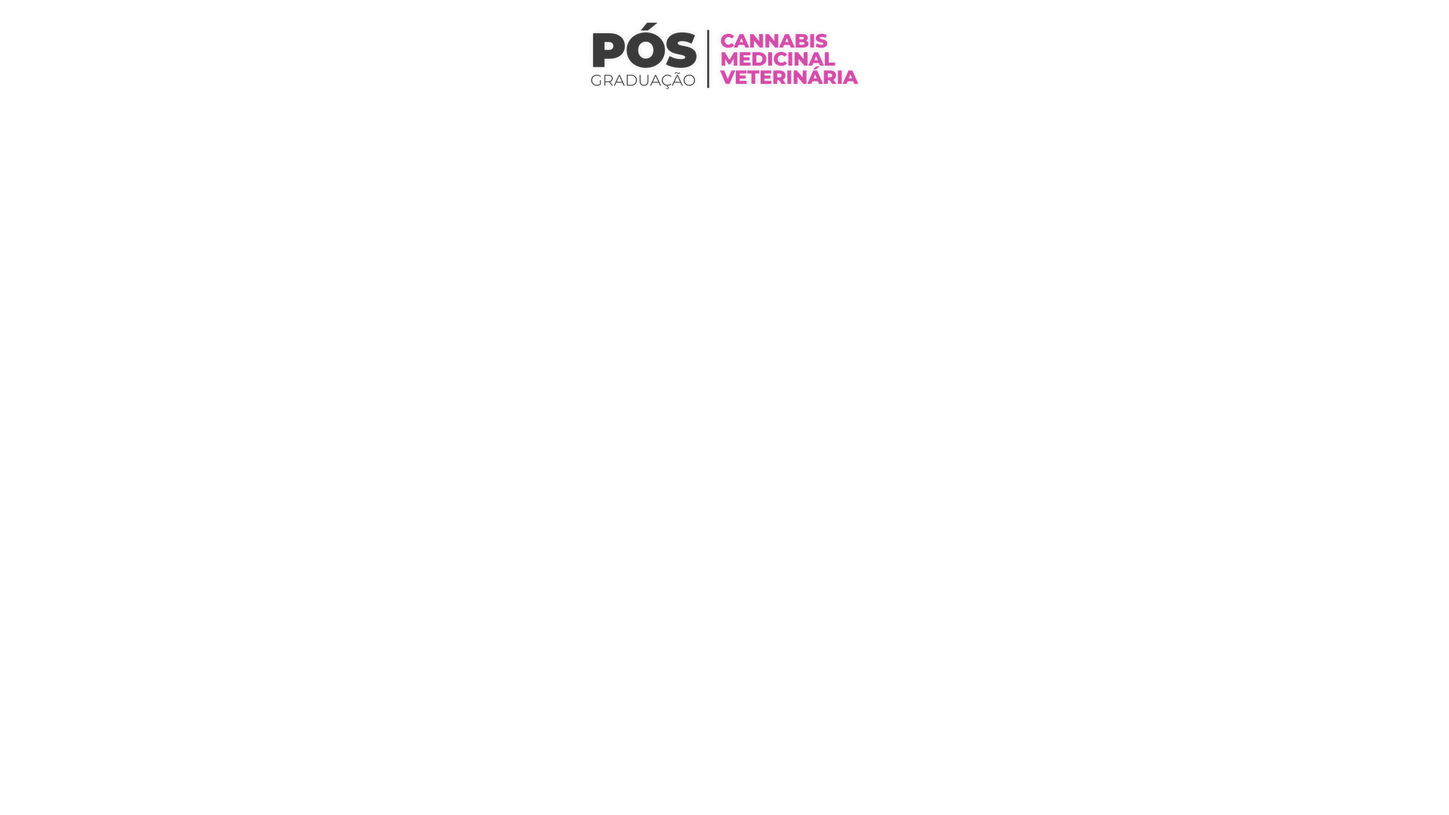
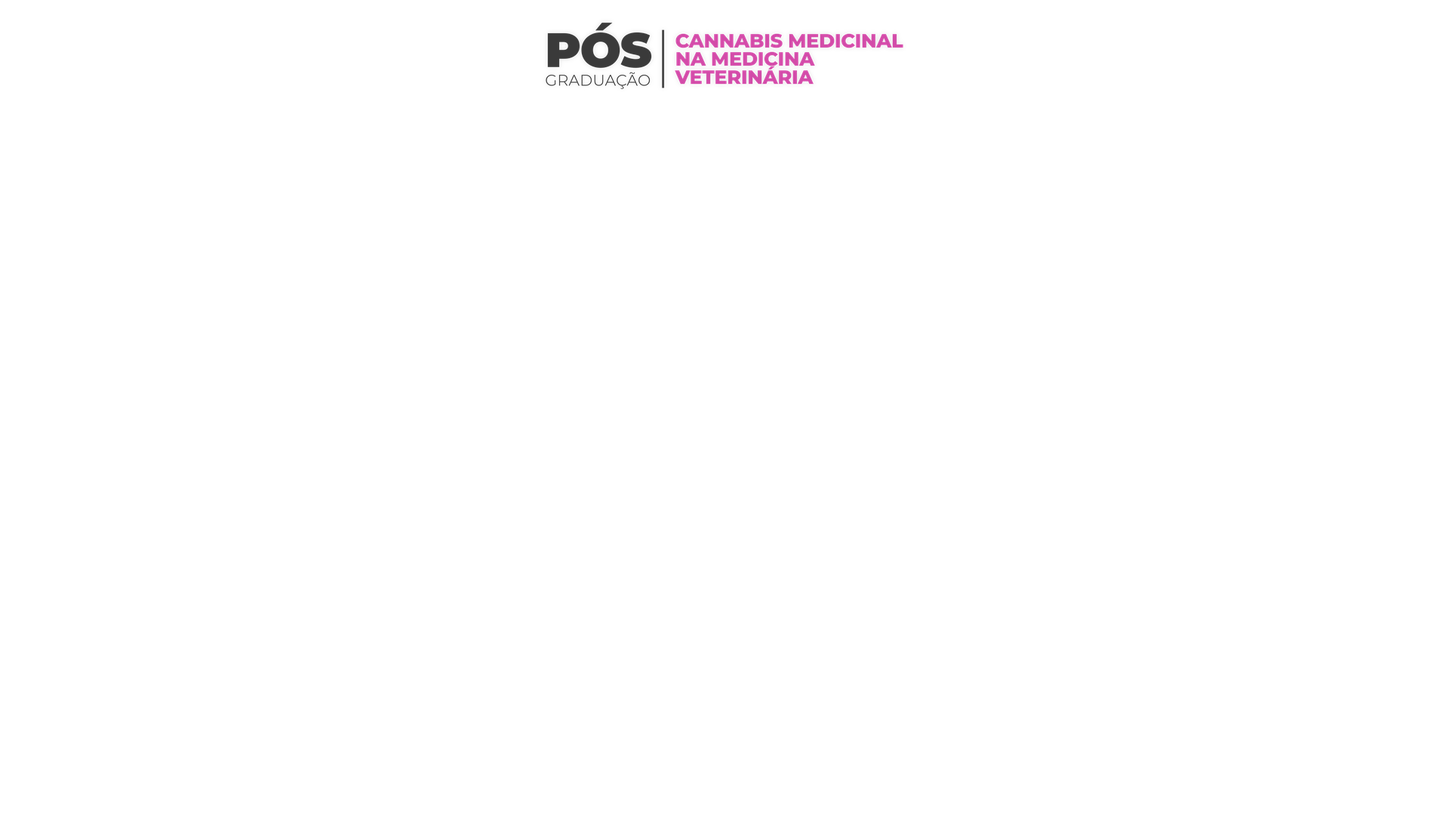
Última passada: revisão independente aplicada (CMMV com o nome oficial, exceções de marca escritas, regra única de contraste, nomes reais fora, live em 720p, título dos cortes no magenta oficial, copy com a pesquisa de fontes oficiais e clássicos, conferência de texto mais forte, autoteste do reels 

Changed region(s): [[0.375, 0.0306, 0.625, 0.1222]]

diff --git a/plugins/ppgvet/scripts/checar_texto.py b/plugins/ppgvet/scripts/checar_texto.py
@@ -5,7 +5,7 @@ uso: checar_texto.py <arquivo.txt> --tipo legenda|arte|whatsapp|anuncio [--titul
 FALHA barra a entrega (corrigir e rodar de novo); AVISO é para olhar e decidir. Sai 1 se houver FALHA."""
 import re, sys
 
-LIMITES = {"legenda": 2200, "whatsapp": 1000, "anuncio": 600, "arte": 400}  # legenda: limite do Instagram; os outros, da casa
+LIMITES = {"legenda": 2200, "whatsapp": 600, "anuncio": 600, "arte": 400}  # legenda: limite do Instagram; os outros, da casa
 VISIVEL = 125  # a legenda e o texto principal do anúncio mostram ~125 caracteres antes do "mais"
 
 FALHAS = [  # (regex, por quê)
@@ -38,12 +38,15 @@ def numeros_da_marca(texto):
     return ruins
 
 
+SIGLAS = ("RNGB", "NGB", "CMCB", "GPL", "SA", "PC", "PS", "CBEA", "CMMV", "QSAOA", "SUZ", "GPERA", "PPT", "MIFV", "GIA",
+          "GCC", "CRCV", "GPDCA", "MVPA")  # as do regras/marca.md (o teste confere)
 COMENTE_OK = {}  # palavra -> perfil, só as que têm automação ligada (regras/oficio/copy.md); vazio até confirmar
 
 AVISOS = [
     (r"(?i)\bcomente\s+[\"“']?([A-ZÁÉÍÓÚÂÊÔÃÕÇ]{2,})", "\"Comente X\" só com palavra que tem automação ligada no perfil: confirmar com quem pediu"),
     (r"(?i)\b(estás|connosco|equipa|ecrã|facto|tu\s+(podes|queres|tens|és|vais))\b", "português de Portugal: escrever como no Brasil, com \"você\""),
     (r"(?i)reconhecid[oa] pelo MEC", 'a prova oficial é "Nota máxima (5) no MEC" (marca.md)'),
+    (r"(?i)\b(marque (um|uma|seus?|suas?|o|a) \w+|comente (sim|eu quero|eu)\b|compartilhe com)", "isca de engajamento tira o post da recomendação (Meta): só com algo real por trás (copy.md)"),
     (r"\bNão é [^.!?\n]{1,60}[.!?]\s+É\b", '"Não é X. É Y." soa a texto de IA (a frase de marca "Não é só mais uma pós-graduação" pode)'),
     (r"(?i)\b(nos dias de hoje|no cenário atual|cada vez mais|mergulh\w+|jornada|alavanc\w+|potencializ\w+|desbrav\w+|"
      r"contribuir para a formação|profissionais qualificados|transformador\w*|revolucion\w+|desvend\w+)", "palavra vazia ou de academiquês: trocar por algo concreto"),
@@ -80,12 +83,19 @@ def checar(texto, tipo, titulo=""):
         avisos.append(f"hashtag em {tipo}: só faz sentido na legenda")
     if texto.count("✅") >= 3:
         avisos.append("lista de ✅ em série soa a template")
+    linhas = [l for l in texto.splitlines() if l.strip()]
+    if tipo == "whatsapp" and len(linhas) > 5:
+        avisos.append(f"{len(linhas)} linhas no WhatsApp: acima de 5 o app corta com \"ler mais\"")
+    for s in SIGLAS:
+        if re.search(rf"(?<![#\w]){s}(?!\w)", texto) and not re.search(rf"\({s}\)", texto):
+            avisos.append(f'sigla "{s}" sozinha: escrever o nome da pós por extenso antes (copy.md)')
+            break
     links = re.findall(r"https?://\S+", texto)
     if tipo == "anuncio" and links:
-        avisos.append("link no texto do anúncio: o destino vai no campo do link e o UTM no modelo de parâmetros (utm.md)")
+        avisos.append("link no texto do anúncio: o destino vai no campo do link e o UTM no modelo de parâmetros da plataforma")
     for l in links:
         if re.search(r"(ppgvet\.com\.br|ppgeducacao\.com\.br)", l) and "utm_source=" not in l and tipo != "anuncio":
-            avisos.append(f"{l}: link de site nosso sem UTM; pegar no gerador Links com UTM do sistema (utm.md)")
+            avisos.append(f"{l}: link de site nosso sem UTM; pegar no gerador \"Links com UTM\" do sistema")
     if tipo == "whatsapp" and len(links) > 1:
         avisos.append("mais de um link no WhatsApp: uma ação só")
     if tipo == "anuncio" and titulo and len(titulo) > 40:
@@ -118,6 +128,15 @@ def teste():
     assert len(f) >= 3 and len(a) >= 2, (f, a)
     f, _ = checar("Aula nova #medicinaveterinaria #ppgeducacao", "legenda")
     assert not f, f
+    import os  # as siglas têm que ser as do regras/marca.md
+    md = open(os.path.join(os.path.dirname(os.path.abspath(__file__)), "..", "regras", "marca.md"), encoding="utf-8").read()
+    assert set(SIGLAS) == set(re.findall(r"^\| ([A-Z]+) \| [^|]+ \| (?:PPGVET|PPG) \|", md, re.M))
+    _, a = checar("Pós em Postura Comercial (PC) com aula nova. Marque um amigo que precisa ver!", "legenda")
+    assert any("isca" in x for x in a) and not any("sigla" in x for x in a), a
+    _, a = checar("Aula nova da CMCB na quinta", "legenda")
+    assert any("sigla" in x for x in a), a
+    _, a = checar("\n".join(["linha"] * 6), "whatsapp")
+    assert any("linhas" in x for x in a), a
     print("ok")
 
 

diff --git a/plugins/ppgvet/scripts/reels.py b/plugins/ppgvet/scripts/reels.py
@@ -2,7 +2,7 @@
 """Monta um vídeo vertical de fala (Instagram) a partir do roteiro.json da pasta.
 Etapas (cada uma reaproveita o que já existe em tmp/):
   base     corta os blocos de fala da fonte 4K deitada, gira, alterna zoom a cada corte -> tmp/base.mov
-  legenda  transcreve a base (whisper local) -> legenda.srt (corrigir à mão e rodar de novo)
+  legenda  transcreve a base (whisper local) -> legenda-bruta.srt (revisar e salvar como legenda.srt)
   (hf.py   gera o projeto HyperFrames com caixinha, cartões e legenda; render -> tmp/hf.mp4)
   final    fala com motion + vinheta + voz e música (sobe na vinheta) -> saída na pasta dos originais
 uso: reels.py pasta/roteiro.json [base|legenda|final] [--previa]"""
@@ -145,7 +145,20 @@ def etapa_final(r, pasta, tr, previa):
     print("pronto:", saida, f"{total:.1f}s")
 
 
+def teste():
+    r = {"blocos": [[1.0, 2.0], [2.05, 3.0], [5.0, 6.0, "ana"], [5.9, 7.0, "rui"]]}
+    tr = trechos(r, com_quem=True)
+    assert len(tr) == 3 and tr[0][0] == 1.0 - PAD_A and tr[0][1] == 3.0 + PAD_D  # quase encostados: um bloco só
+    assert tr[1][1] == tr[2][0] and tr[1][2] == "ana" and tr[2][2] == "rui"  # pessoas coladas: dividem a folga, sem repetir
+    f, total = mapa([(1, 3), (5, 6)])
+    assert f(0) == 0 and f(2) == 1 and f(4) == 2 and f(5.5) == 2.5 and total == 3
+    assert recorte(1.0, .5, .3, True) == "" and "iw/1.16" in recorte(1.16, .5, .3, True)
+    print("ok")
+
+
 if __name__ == "__main__":
+    if sys.argv[1:] == ["--teste"]:
+        teste(); sys.exit()
     rot = sys.argv[1]; etapa = sys.argv[2] if len(sys.argv) > 2 else "base"
     pasta = os.path.dirname(os.path.abspath(rot))
     r = json.load(open(rot, encoding="utf-8")); r["fonte"] = caminho(pasta, r["fonte"])

diff --git a/plugins/ppgvet/scripts/live_titulos.py b/plugins/ppgvet/scripts/live_titulos.py
@@ -16,7 +16,7 @@ POS = {  # sigla: (linhas, sub) — "|" quebra a linha
     'pc': ('Postura|Comercial', ''),
     'ps': ('Produção|de Suínos', ''),
     'cbea': ('Comportamento|e Bem-Estar Animal', ''),
-    'cmmv': ('Cannabis|Medicinal|Veterinária', ''),
+    'cmmv': ('Cannabis Medicinal|na Medicina|Veterinária', ''),
     'qsaoa': ('Qualidade e|Segurança de Alimentos|de Origem Animal', ''),
     'suz': ('Saúde Única|e Zoonoses', ''),
     'gpera': ('Gestão de Pessoas|e Extensão Rural|na Agroindústria', ''),
@@ -102,6 +102,11 @@ def nome(s):
 if __name__ == '__main__':
     if sys.argv[1:] == ['--teste']:
         assert nome('PS') == 'Produção de Suínos' and len(POS) == 19
+        import re  # os nomes daqui têm que ser os do regras/marca.md (já divergiu uma vez: CMMV)
+        md = open(os.path.join(os.path.dirname(os.path.abspath(__file__)), '..', 'regras', 'marca.md'), encoding='utf-8').read()
+        oficial = {s.lower(): n.strip() for s, n in re.findall(r'^\| ([A-Z]+) \| ([^|]+) \| (?:PPGVET|PPG) \|', md, re.M)}
+        junto = lambda s: ' '.join(x.replace('|', ' ') for x in POS[s] if x)
+        assert {s: junto(s) for s in POS} == oficial, [(s, junto(s), oficial.get(s)) for s in POS if junto(s) != oficial.get(s)]
         for s in POS:
             cabe(acervo('live', 'titulos-overlay', f'titulo-live-{s}.png'))
         print('ok')

diff --git a/plugins/ppgvet/scripts/aula.py b/plugins/ppgvet/scripts/aula.py
@@ -194,9 +194,13 @@ def main(arq_json, so_pontos=False):
 
 if __name__ == "__main__":
     assert MOLDURA["CBEA"] == "PETFOOD" and MOLDURA["SA"] == "AVES" and MOLDURA["GPERA"] == "PADRÃO"
-    assert professor("03/11 | Extensão Rural - Parte II | Prof. Gabriela Tonial Knappmann Bittencourt") == "Gabriela Tonial Knappmann Bittencourt"
+    import re  # a coluna moldura do regras/marca.md tem que bater com esta tabela (dona)
+    md = open(os.path.join(os.path.dirname(os.path.abspath(__file__)), "..", "regras", "marca.md"), encoding="utf-8").read()
+    doc = {s: m for s, m in re.findall(r"^\| ([A-Z]+) \| [^|]+ \| (?:PPGVET|PPG) \| ([^|]+?) \|", md, re.M) if m != "perguntar"}
+    assert doc == MOLDURA, set(doc.items()) ^ set(MOLDURA.items())
+    assert professor("03/11 | Extensão Rural - Parte II | Prof. Ana Maria Souza Lima") == "Ana Maria Souza Lima"
     assert professor("x | Profa. Ana Lima") == "Ana Lima" and professor("x | Prof Rui") == "Rui"
-    assert professor("x | y", "Paola Martinello") == "Paola Martinello"
+    assert professor("x | y", "Marina Costa") == "Marina Costa"
     assert no_video([(10, 20), (30, 50)], [(15, 35)]) == [(5, 10), (10, 15)]
     assert expr([]) == "0" and expr([(1, 2.5)]) == "between(t,1.00,2.50)"
     print("ok") if sys.argv[1:] == ["--teste"] else main(sys.argv[1], "--pontos" in sys.argv)

diff --git a/plugins/ppgvet/scripts/patrocinador_acabamento.py b/plugins/ppgvet/scripts/patrocinador_acabamento.py
@@ -1,7 +1,7 @@
 # Acabamento da cena: brilho suave nas áreas claras, +5% contraste, +8% saturação, leve calor,
 # vinheta e (se algo cai) um tranco amortecido no quadro do pouso.
 # uso: patrocinador_acabamento.py <pasta-quadros f0001.png…> <pasta-saida> <quadro-do-pouso | 9999 se nada cai>
-# (o reflexo correndo pelo vidro saiu: o usuário achou que ficou errado, 31/10/2026)
+# sem reflexo correndo pelo vidro (o usuário reprovou)
 import sys, glob, os, math, numpy as np, cv2
 ent, sai, pouso = sys.argv[1], sys.argv[2], int(sys.argv[3])
 os.makedirs(sai, exist_ok=True)

diff --git a/plugins/ppgvet/scripts/post.py b/plugins/ppgvet/scripts/post.py
@@ -11,7 +11,7 @@ BOLD = acervo("fontes", "montserrat-bold.ttf")
 VAR = acervo("fontes", "montserrat-variavel.ttf")  # tem a Regular
 MOLDURA = acervo("molduras", "moldura-post-corte-{}.png")  # ppgvet ou ppg
 FIM = acervo("logos-animadas", "encerramento-{}-vertical.mp4")
-COR_TITULO = {"ppgvet": "#965594", "ppg": "#1670C2"}
+COR_TITULO = {"ppgvet": "#D24BA8", "ppg": "#1670C2"}  # cores principais do marca.md (título grande: passa 3:1)
 W, H, FPS = 1080, 1920, 30
 CAM = (42, 831, 996)  # x, y e largura da câmera do professor no post
 

diff --git a/plugins/ppgvet/regras/oficio/copy.md b/plugins/ppgvet/regras/oficio/copy.md
@@ -1,12 +1,12 @@
 # Ofício: copy (texto de marketing)
 
-Lido pela skill `copy` e por toda peça com texto (arte, legenda, WhatsApp, anúncio). Marca, público e dor de cada pós, tom, frases de marca, provas e botões: `marca.md`. Fonte: [O] doc oficial, [L] livro clássico, [D] dado dos nossos perfis (estudo de 24/11/2026: 100 legendas × alcance, salvamentos e compartilhamentos), [E] regra da equipe, [N] proposta da casa.
+Lido pela skill `copy` e por toda peça com texto (arte, legenda, WhatsApp, anúncio). Marca, exceções, público e dor de cada pós, tom, frases, provas e botões: `marca.md`. Esta regra é dona da titulação e das regras de texto. Fonte: [O] doc oficial, [L] livro clássico, [D] dado dos nossos perfis (100 legendas × alcance, salvamentos e compartilhamentos, nov/2026), [E] regra da equipe, [N] proposta da casa.
 
 ## O que funciona nos nossos perfis [D]
 | achado | número | regra |
 |---|---|---|
 | cena real da aula ou do campo, com humor, legenda de 1 a 3 frases | Reels assim: mediana 33.847 de alcance × 1.903 do perfil | o texto não compete com o vídeo bom: curto, uma frase de identificação |
-| venda dentro do viral | cena engraçada → "aprender no campo, com a mão na massa" → pós pelo nome → chamada: 33.847 · 78 salvos · 304 compart. | o molde de venda no Reel |
+| venda dentro do viral | cena engraçada → "aprender no campo, com a mão na massa" → pós pelo nome → ação: 33.847 · 78 salvos · 304 compart. | o molde de venda no Reel |
 | dor em cena concreta | "Vou fazer" é o estetoscópio na caixa: 9.704 × dor genérica ~1.000 | a dor da tabela do `marca.md` sempre vira cena (bota, curral, laudo na mão, vaca às 22h) |
 | pergunta solta na 1ª linha | entre os piores nos dois perfis | não abrir com pergunta; pergunta aberta só no fim, para conversa |
 | texto de tese com lista ✅ (PPG) | mediana 251; com "MBA", 157 | texto corrido ou marcador simples; nunca ✅ em série |
@@ -14,10 +14,11 @@ Lido pela skill `copy` e por toda peça com texto (arte, legenda, WhatsApp, anú
 | legenda copiada de uma semana para outra | as 3 cópias estão entre os 10 piores | cada post com texto próprio |
 | tamanho da legenda | quase não muda o alcance (correlação −0,19 e −0,09) | o tamanho segue o conteúdo, não uma regra fixa |
 
-## Ofício [L]
-- **Gancho:** a primeira linha faz o trabalho; o resto só é lido por quem parou ([Ogilvy, *Ogilvy on Advertising*]: o título é lido 5 vezes mais que o texto). Na legenda e no anúncio, ~125 caracteres aparecem antes do "mais" [O]: o gancho fecha uma ideia inteira dentro deles.
-- **Específico vence genérico:** fato, número, nome e cena (Ogilvy). Teste: trocou o nome da escola e o texto continua valendo? Refazer (`marca.md`).
-- **Nível de consciência de quem lê** ([Schwartz, *Breakthrough Advertising*]) decide o começo:
+## Ofício
+- **Gancho:** a primeira linha faz o trabalho; o resto só é lido por quem parou (Ogilvy: o título é lido 5 vezes mais que o texto [L]). O gancho fecha uma ideia inteira na 1ª linha (o corte antes do "mais" muda com a tela; no Reels aparece menos).
+- **Gancho que testa** (Caples, *Tested Advertising Methods*; Ogilvy [L]): ganho de quem lê ou notícia real. Curiosidade só junto do ganho. A pós aparece pelo nome no título ou na 1ª lâmina; cada lâmina do carrossel funciona sozinha.
+- **Específico vence genérico** (Ogilvy [L]): fato, número, nome e cena. Teste: trocou o nome da escola e o texto continua valendo? Refazer.
+- **Nível de consciência de quem lê** (Schwartz, *Breakthrough Advertising* [L]) decide o começo:
 
 | quem lê | começar por | peça típica |
 |---|---|---|
@@ -26,36 +27,48 @@ Lido pela skill `copy` e por toda peça com texto (arte, legenda, WhatsApp, anú
 | conhece a solução, compara | a prova: professor com cargo e empresa, aula prática, Nota 5 no MEC, 12.000+ alunos ativos | carrossel de pós, anúncio de remarketing |
 | já quer a nossa | a oferta e a ação: data, vaga, link | aula da semana, WhatsApp, último dia |
 
-- **Uma peça, uma ação:** um pedido só no fim (salvar, link na bio, responder, confirmar presença). Dois pedidos dividem o clique.
-- **Ritmo:** frase curta, verbo concreto, voz ativa; pares que contrastam são bons ("Vou fazer" × "Feito") quando o contraste é real.
+- **Mercado saturado** (Schwartz, sofisticação de mercado [L]): pós é um mercado em que promessa solta não convence. Todo superlativo vem com o **como** (aula no campo, professor que faz isso hoje) ou com o número do `marca.md`.
+- **Objeção dita e respondida** (Sugarman, *Adweek Copywriting Handbook* [L]): preço, tempo e distância aparecem e são respondidos com fato do curso confirmado por quem pede (parcela, online, duração). É o que o adulto que estuda procura: preço claro, resultado verificável, flexibilidade e método prático ([UPCEA](https://upcea.edu/does-higher-eds-value-proposition-resonate-with-adult-learners/)).
+- **Prova social de alguém parecido** ([Cialdini, HBR 2001](https://hbr.org/2001/10/harnessing-the-science-of-persuasion) [L]): depoimento de quem tem a mesma situação de quem lê; autoridade se mostra (o que o professor faz hoje), não se supõe.
+- **Escassez e urgência só verdadeiras** (Cialdini [L]): "turma fecha sexta" só com data ou vaga real; escassez falsa é proibida.
+- **Uma peça, uma ação:** um pedido só no fim (salvar, link na bio, responder, confirmar presença).
+- **Linguagem simples** ([Lei 15.263/2025](https://www2.camara.leg.br/legin/fed/lei/2025/lei-15263-14-novembro-2025-798293-publicacaooriginal-177011-pl.html), art. 5º, como referência; [NN/g](https://www.nngroup.com/articles/plain-language-experts/)): o mais importante primeiro; frase de até ~20 palavras; voz ativa e verbo no lugar de substantivo; nome da pós por extenso antes da sigla (sigla sozinha não, em texto público); termo técnico só para o público do ramo. Pares que contrastam ("Vou fazer" × "Feito") quando o contraste é real.
 
 ## Por tipo
 | tipo | tamanho | estrutura | regra oficial |
 |---|---|---|---|
-| legenda de Reels | 1 a 3 frases | identificação ou piada da cena; se vende, cena → prova da prática → pós pelo nome → ação | até 2.200 caracteres; hashtags: usar até 5 (o app limita a 5 desde dez/2025, segundo os guias; a [doc da API](https://developers.facebook.com/docs/instagram-platform/instagram-graph-api/reference/ig-user/media) ainda aceita 30, e posts nossos pelo agendador saíram com até 9) |
-| legenda de post e carrossel | o que o conteúdo pedir | gancho (dentro de ~125) → corpo (uma ideia por parágrafo, ou a lista útil) → ação → até 5 hashtags | idem |
-| texto da arte | título de até ~8 palavras; uma ideia por lâmina | 1ª lâmina gancho, meio uma ideia cada, última a ação (`oficio/design.md`) | leitura no celular: letra grande, pouco texto |
-| WhatsApp | curto (até ~600 caracteres), um link | quem fala (marca) → o fato (o quê, quando) → um link do gerador → como parar de receber, quando for lista | só para quem aceitou receber; respeitar quem pede para parar; não enganar nem fazer spam ([O] [Política do WhatsApp Business](https://whatsappbusiness.com/pt-br/policy/)) |
-| anúncio | texto principal até 125, título até 40 | dor em cena ou prova → oferta → ação | [O] [Guia de anúncios da Meta](https://www.facebook.com/business/ads-guide/update/image/instagram-feed); nunca afirmar atributo pessoal de quem lê (saúde, finanças, idade: "Você está endividado?") ([O] [Padrões de publicidade](https://transparency.meta.com/policies/ad-standards/objectionable-content/privacy-violations-personal-attributes/)). É proposta para o responsável pelo tráfego |
+| legenda de Reels | 1 a 3 frases | identificação ou piada da cena; se vende, cena → prova da prática → pós pelo nome → ação | o vídeo se entende sem som e o gancho (e a pós) aparece nos 3 primeiros segundos ([O] [Meta: vídeo](https://business.meta.com/news/video-ad-best-practices/)); texto na tela só apoia a cena: Reel "majoritariamente texto", com marca d'água ou repostado é menos recomendado ([O] [Originalidade](https://creators.instagram.com/recommendations-and-originality), [Ranking](https://about.instagram.com/blog/announcements/instagram-ranking-explained)) |
+| legenda de post e carrossel | o que o conteúdo pedir | gancho → corpo (uma ideia por parágrafo, ou a lista útil) → ação → hashtags | até 2.200 caracteres ([O] [API](https://developers.facebook.com/docs/instagram-platform/instagram-graph-api/reference/ig-user/media)); **até 5 hashtags**, poucas e específicas ([O] [@creators, 18/12/2025](https://www.threads.com/@creators/post/DSalXGPCWM4); pelo agendador ainda passam mais, não usar); a palavra que o profissional digitaria na busca vai na legenda, nunca no comentário ([O] [Busca do Instagram](https://about.instagram.com/blog/announcements/break-down-how-instagram-search-works)) |
+| texto da arte | título de até ~8 palavras; uma ideia por lâmina | 1ª lâmina gancho, meio uma ideia cada, última a ação (`oficio/design.md`) | arte de anúncio com pouco texto na imagem; o texto longo vai no texto principal ([O] [Meta](https://www.facebook.com/business/help/980593475366490)) |
+| WhatsApp | até **5 linhas** (acima disso o app corta com "ler mais"), 3 a 4 blocos, um link | primeiro nome quando a lista tem → quem fala (marca) → o fato (o quê, quando) → um link do gerador "Links com UTM" do sistema → como parar de receber, quando for lista; o texto se entende sem a imagem; poucos emojis | só para quem aceitou receber; respeitar quem pede para parar; não enganar nem fazer spam ([O] [Política](https://whatsappbusiness.com/pt-br/policy/)). Frequência pela leitura, não por número: a Meta limita sozinha quem lê pouco; cada lista recebe só o que é dela, quem parou de ler ganha pausa, nada sai de vários números, aceite de promoção pedido à parte do aviso de aula ([O] [Boas práticas, abr/2026](https://whatsappbusiness.com/wp-content/uploads/2026/04/Best-Practices-for-Marketing-Messages-on-WhatsApp-.pdf), [limite por pessoa](https://developers.facebook.com/documentation/business-messaging/whatsapp/templates/marketing-templates/per-user-limits)) |
+| anúncio | texto principal até 125 caracteres, título até 40 | dor em cena ou prova → oferta → ação | [O] [Guia de anúncios da Meta](https://www.facebook.com/business/ads-guide/update/image/instagram-feed); nunca afirmar atributo pessoal de quem lê (saúde, finanças, idade: "Você está endividado?") ([O] [Padrões de publicidade](https://transparency.meta.com/policies/ad-standards/objectionable-content/privacy-violations-personal-attributes/)). É proposta para o responsável pelo tráfego |
 
 ## Regras da casa
-- **Titulação** [E]: só Dr./Dra. (doutorado) e Me./Ma. (mestrado), comprovados (currículo, Lattes). Sem comprovação: só o nome. Nunca Prof., Profa., M.V., Esp., PhD. Avisar quando ficou sem titulação.
-- **Números e provas** [E]: só os do `marca.md`, na forma dele ("12.000+ alunos ativos", nunca "12 mil", "+12.000" ou "12K"; "300+ professores"; "Nota máxima (5) no MEC"). Nada de "formados" no lugar de "ativos". Número sem fonte não entra ("95% dos veterinários…"). Norma, portaria e estudo: conferir na fonte oficial antes.
-- **Nomes** [E]: pós com o nome exato da tabela do `marca.md`; "Pós-Graduação", nunca "MBA"; professor e convidado com a grafia conferida (foto, site, Lattes); PPG e PPGVET nunca no mesmo texto (o que é da PPGVET é peça da PPGVET).
+- **Titulação** [E] (dona desta regra): só Dr./Dra. (doutorado) e Me./Ma. (mestrado), comprovados (currículo, Lattes). Sem comprovação: só o nome, e avisar. Nunca Prof., Profa., M.V., Esp., PhD.
+- **Números e provas** [E]: só os do `marca.md`, na forma dele ("12.000+ alunos ativos", nunca "12 mil", "+12.000" ou "12K"; "300+ professores"; "Nota máxima (5) no MEC"). Nada de "formados" no lugar de "ativos". Número sem fonte não entra. Norma, portaria e estudo: conferir na fonte oficial antes.
+- **Nomes** [E]: pós com o nome exato do `marca.md`; professor e convidado com a grafia conferida (foto, site, Lattes); marcas e exceções pelo `marca.md`.
 - **Hashtags** [E]: até 5, sem acento (`#medicinaveterinaria`, `#ppgeducacao`), grafia conferida.
-- **"Comente X e receba no direct"** [E]: só com palavra que tem automação ligada no perfil. Palavras confirmadas: nenhuma ainda (pendente). Até lá, perguntar a quem pede antes de usar.
+- **Sem isca de engajamento** ([O] [Meta](https://transparency.meta.com/features/approach-to-ranking/content-distribution-guidelines/engagement-bait/)): nada de "comente SIM", "marque um amigo" ou "compartilhe" sem algo real por trás; isso tira o post da recomendação. **"Comente PALAVRA e receba no direct"** só com automação ligada no perfil e o material entregue de verdade. Palavras confirmadas: nenhuma ainda; até lá, perguntar a quem pede.
 - **Nunca** [E]: "Ouça agora nas principais plataformas…"; sobra de rascunho ("Ganchos alternativos:", `**negrito**`, "Versão A"); ano errado (conferir o ano de toda data).
-- **Português do Brasil, "você"** [N]: sem "tu", "estás", "equipa", "connosco"; sem travessão (`marca.md`).
-- **Podcast** [E]: as regras de copy da equipe valem por cima (descrição do episódio em branco salvo pedido; "O que você irá aprender" com 4 tópicos; cortes na ordem do doc de transcrição; @ dos hosts pela lista da equipe).
+- **Português do Brasil, "você"** [N]: sem "tu", "estás", "equipa", "connosco"; sem travessão.
+- **Link**: todo link que sai à mão (bio, post, WhatsApp, QR) sai do gerador "Links com UTM" do sistema; anúncio leva o destino no campo do link e o UTM no modelo de parâmetros da plataforma; link entre os nossos sites, sem UTM.
+
+## Podcast [E]
+Regras de copy da equipe para os podcasts (valem por cima das outras quando houver conflito):
+- Nunca "Ouça agora nas principais plataformas de áudio e vídeo." nem "Comente X e receba o link no seu direct" (não existe essa automação nos podcasts); manter o pedido para salvar.
+- Descrição do episódio (player): em branco, salvo pedido com a informação.
+- "O que você irá aprender": só 4 tópicos.
+- Cortes: na ordem, na quantidade e com o conteúdo do documento de transcrição dos cortes (legendas inclusive).
+- @ dos hosts para marcar no Instagram: pela lista da equipe (perguntar a quem pede); @ do convidado quando informado.
+- Episódio de parceria (ex.: Nucleovet/SBSBL): seguir o modelo que a equipe mandar (título, host, hashtags); sem modelo, perguntar.
 
 ## Cara de texto de IA em português [N]
-Muletas que o estudo achou nas nossas legendas e o que pôr no lugar:
-- "Não é X. É Y." (15 posts): dizer o Y direto. Exceção: a frase de marca "Não é só mais uma pós-graduação".
+- "Não é X. É Y.": dizer o Y direto. Exceção: a frase de marca "Não é só mais uma pós-graduação".
 - ✅ em lista, "imperdível", "especialistas de peso", "conteúdo de ponta", "transformar a sua carreira", "jornada", "alavancar", "mergulhar", "cada vez mais", "no cenário atual": trocar pelo fato concreto.
 - "na prática" e "real" repetidos três vezes no mesmo texto: uma vez, no lugar certo.
-- Com o plugin `antislop` instalado, a skill `antislop-copywriting` complementa (os padrões em inglês valem igual).
+- Com o plugin `antislop` instalado, a skill `antislop-copywriting` complementa.
 
 ## Conferência
-`"$PY" "$S/checar_texto.py" texto.txt --tipo <legenda|arte|whatsapp|anuncio>`: tamanho, 1ª linha, hashtags (quantidade e grafia), "MBA", travessão, titulação, números da marca, frases proibidas, sobra de rascunho, português de Portugal, muletas, link sem UTM e atributo pessoal em anúncio. FALHA barra a entrega.
+`"$PY" "$S/checar_texto.py" texto.txt --tipo <legenda|arte|whatsapp|anuncio>`: tamanho, 1ª linha, linhas do WhatsApp, hashtags (quantidade e grafia), "MBA", travessão, titulação, números da marca, sigla sozinha, frases proibidas, isca de engajamento, sobra de rascunho, português de Portugal, muletas, link sem UTM e atributo pessoal em anúncio. FALHA barra a entrega.
 
-Livros: Ogilvy, *Ogilvy on Advertising* (1983); Schwartz, *Breakthrough Advertising* (1966). Docs conferidas em 24/11/2026.
+Livros: Ogilvy, *Ogilvy on Advertising* (1983); Schwartz, *Breakthrough Advertising* (1966); Caples, *Tested Advertising Methods*; Sugarman, *The Adweek Copywriting Handbook*; Cialdini, *Influence* (e o artigo da HBR, 2001). Docs conferidas em nov/2026.

diff --git a/plugins/ppgvet/skills/aula-curricular/SKILL.md b/plugins/ppgvet/skills/aula-curricular/SKILL.md
@@ -26,14 +26,14 @@ Se a pessoa chamou sem o material (ou é a primeira vez), explicar em poucas lin
 Como a tarefa chega e o que tirar de cada linha:
 ```
 Inserir abertura animada: PPGVET
-Nomear aula como: 03/11 | Extensão Rural - Parte II | Prof. Gabriela Tonial Knappmann Bittencourt
+Nomear aula como: 03/11 | Extensão Rural - Parte II | Prof. Ana Maria Souza Lima
 Anexar a aula editada na plataforma PANDA VÍDEO no seguinte caminho: PPGVET > SANIDADE AVÍCOLA > 2026 > 10.OUTUBRO
 ```
 - **Abertura:** aula curricular **sempre** leva a abertura PPGVET (`"abertura": "PPGVET"`), mesmo quando a tarefa não traz a linha "Inserir abertura animada" e mesmo em pós da marca PPG.
 - **Bruto:** a gravação do Meet com a data da aula no nome (`2026_11_03` = 03/11), o arquivo "… - Recording.mp4". O nome da sala nem sempre é o da disciplina (Extensão Rural estava na sala "Sanidade Avícola e Produção e Gestão Avícola"): achar pela data e pela pós do caminho da Panda. Quando houver duas salas parecidas, tirar um quadro de cada e ler o nome do professor na câmera. Sem como decidir: perguntar no plano.
 - **Pós → sigla:** pelo nome da pós no caminho da Panda e a tabela de `marca.md`. A moldura sai da sigla. Sigla sem moldura: perguntar no plano.
 - **Card do professor:** é gerado na hora, a cada aula, a partir do card sem nome que vem no pacote (`acervo/card-professor/card-sem-nome.png`). Nenhum card com nome fica guardado.
-  - O nome vem da tarefa (a parte depois do último "|", sem o "Prof."). Se o nome inteiro não couber, o script usa só o primeiro e o último ("Gabriela Bittencourt").
+  - O nome vem da tarefa (a parte depois do último "|", sem o "Prof."). Se o nome inteiro não couber, o script usa só o primeiro e o último ("Ana Lima").
   - O gênero é deduzido pelo nome e vai no `aula.json` como `"genero": "professora"` ou `"genero": "professor"` (o card escreve "Professora/Professor do Grupo PPG Educação"). Se o nome não deixar claro, perguntar no plano.
   - O `--pontos` (passo 3) gera o `card-conferir.png` ao lado do `aula.json`, para o Claude conferir o nome e o gênero antes de montar.
 - **Panda:** a pessoa sobe à mão (não há chave de API para todos). Guardar, para cada aula, o destino que a tarefa diz ou o **link da pasta** da Panda, se a pessoa mandar (`https://dashboard.pandavideo.com.br/#/folders/<id>`). O caminho escrito na tarefa costuma vir errado: avisar se o mês do caminho não bater com a data da aula (exemplo: aula de 03/11 com "10.OUTUBRO" quando a pasta certa é "11.NOVEMBRO").
@@ -50,13 +50,13 @@ Com várias aulas, transcrever a próxima enquanto a anterior renderiza.
   - Sem intervalo, é um trecho só.
   - Exemplo: o trecho 1 vai até "…então a gente está indo para o bom caminho." (1:28:55), logo antes de "Vamos só ver que horas são", e o trecho 2 começa em "Bom, então a gente também falou bastante sobre comunicação" (1:42:37).
 - **Fim:** ler os últimos ~20 min. A aula vai até a **última fala**: perguntas, agradecimento e "vou encerrando a gravação" ficam. Só o silêncio e o resto vazio saem.
-- **Pausa da avaliação:** quando o monitor para a aula para a avaliação e o professor espera em silêncio, cortar igual ao intervalo: vira um trecho a mais. Exemplo: o trecho vai até "…Eduardo? Tranquilo? Então tá." (2:41:57) e o próximo começa em "Então, a partir de agora, a gente vai falar um pouco sobre a IN3" (2:45:08).
+- **Pausa da avaliação:** quando o monitor para a aula para a avaliação e o professor espera em silêncio, cortar igual ao intervalo: vira um trecho a mais. Exemplo: o trecho vai até "…Pedro? Tranquilo? Então tá." (2:41:57) e o próximo começa em "Então, a partir de agora, a gente vai falar um pouco sobre a IN3" (2:45:08).
 - **Meio:** fora isso, não cortar mais nada.
 
 ## 3. aula.json e conferir
 ```json
 {"bruto": "Aula Curricular _ ... - Recording.mp4",
- "titulo": "03/11 | Extensão Rural - Parte II | Prof. Gabriela Tonial Knappmann Bittencourt",
+ "titulo": "03/11 | Extensão Rural - Parte II | Prof. Ana Maria Souza Lima",
  "sigla": "SA", "genero": "professora", "abertura": "PPGVET",
  "panda": "https://dashboard.pandavideo.com.br/#/folders/<id>  (ou o caminho da tarefa)",
  "trechos": [

diff --git a/README.md b/README.md
@@ -6,7 +6,7 @@ Um pacote só, o **ppgvet**, com as skills de vídeo e de foto da equipe, no pad
 
 | skill | para quê | como pedir |
 |---|---|---|
-| `/ppgvet:chamada` | chamada de professor ou depoimento de aluno para o Instagram (9:16, legenda, logo, arte de CTA, música) | "monta a chamada 2 da Paola", "monta o depoimento do João" |
+| `/ppgvet:chamada` | chamada de professor ou depoimento de aluno para o Instagram (9:16, legenda, logo, arte de CTA, música) | "monta a chamada 2 da Marina", "monta o depoimento do João" |
 | `/ppgvet:aula-curricular` | aulas do Meet editadas em lote (abertura, cortes, moldura da pós, card do professor) e, no fim, a tabela de onde subir cada uma na Panda | cole as tarefas das aulas |
 | `/ppgvet:treinamento-academy` | treinamento para o PPGVET Academy: intro PPGVET, erros cortados e a moldura do Academy (tela grande com a câmera ao lado, ou só a câmera centralizada) | "edita esse treinamento pro Academy" + arquivo ou link |
 | `/ppgvet:conferir-aula` | confere aulas que alguém editou, sem assistir: intro, moldura, cartela, cortes, erros de fala | "confere as aulas da pasta entrada" |
@@ -85,6 +85,6 @@ Tudo numa ida só; a pessoa só fecha e abre o Claude Code no fim.
 - **Publicar:** commit e `./publicar.sh` (roda os testes dos scripts, valida o pacote e dá push). Sem número de versão no `plugin.json`, cada commit é uma versão nova, e a equipe recebe sozinha.
 - **Organização:** tudo em `plugins/ppgvet/`. As regras ficam em `regras/`, um assunto por arquivo: `nucleo.md` (vale para todas: ambiente, arquivo e versões, como trabalhar, perguntas, IA, PC e tokens, grafia), `video.md` (corte, cor, áudio, motion, padrão Instagram), `bancos-e-referencias.md` (referência, inserções, música e sons) e `marca.md` (marcas, peças, siglas e molduras). Cada skill traz só o próprio passo a passo e lê só os arquivos de que precisa. Regra nova que vale para todas: entra no `nucleo.md`; de um assunto, no arquivo dele.
 - **Skill nova:** criar `plugins/ppgvet/skills/<nome>/SKILL.md`; chega sozinha para todo mundo.
-- **Testes do comportamento** (`plugins/ppgvet/evals/`, formato do `claude plugin eval`): a skill certa abre pelo pedido natural e pede o material que falta em vez de inventar. Rodar quando mudar uma descrição de skill, a porta `video` ou o "O que preciso de você": `cd plugins/ppgvet && claude plugin eval . --ablation none --model sonnet` (16 casos, ~US$ 5 do uso do plano; fora do `publicar.sh` por isso). Skill nova: um caso `disparo-<nome>` com o pedido como a equipe falaria.
+- **Testes do comportamento** (`plugins/ppgvet/evals/`, formato do `claude plugin eval`): a skill certa abre pelo pedido natural e pede o material que falta em vez de inventar. Rodar quando mudar uma descrição de skill, a porta `video` ou o "O que preciso de você": `cd plugins/ppgvet && claude plugin eval . --ablation none --model sonnet` (um caso por skill e os de comportamento; custa uso do plano, por isso fora do `publicar.sh`). Skill nova: um caso `disparo-<nome>` com o pedido como a equipe falaria.
 - **Ferramenta nova:** se toda skill usa, vai no essencial (`instalar()` em `scripts/instalar.py`; quem já instalou roda de novo). Se é de poucas, vira parte sob demanda: entra em `partes()` do `instalar.py` e em `PARTES` do `comum.py`, e o script que usa chama `falta_parte("<parte>")` quando faltar.
 - **Peças no repositório:** só as gerais da marca, em `acervo/`. O detector de rosto (YuNet, licença MIT) fica em `modelos/`. Modelos baixados pelo instalar, fora do repositório: BiRefNet (tirar fundo, MIT) e 4xNomosWebPhoto_esrgan (ampliar foto, de Phhofm, [OpenModelDB](https://openmodeldb.info/models/4x-NomosWebPhoto-esrgan), licença CC-BY 4.0: este crédito é a atribuição pedida). Som só se for gerado por `scripts/sons.py` ou CC0 de verdade, com a linha em `acervo/sons/ORIGEM.md`. Música e sons de Pixabay, Mixkit e afins não entram: as licenças não permitem redistribuir o arquivo solto.

diff --git a/plugins/ppgvet/skills/live-vmix/SKILL.md b/plugins/ppgvet/skills/live-vmix/SKILL.md
@@ -18,8 +18,11 @@ Gera tudo o que a live precisa e entrega num zip com os nomes que o projeto do v
 - **Link do certificado** da Even3. Sem ele, o resto sai e o `.txt` avisa que falta.
 - Exemplo: *"live de quinta sobre biosseguridade na granja, pós PS e SA, foto do professor anexa, certificado https://www.even3.com.br/..."*
 
+## O plano desta skill
+Uma tabela: tema (como vai aparecer), pós, slug, foto recebida (e se precisa recortar) e certificado. Esperar o ok; depois as seções 1 a 4 sem parar.
+
 ## 1. Nome curto (slug) da live
-Minúsculo, palavras com hífen, sem acento nem número, a partir do tema ("As principais habilidades do líder de 2027" → `principais-habilidades-do-lider`). Vai na UTM `utm_content`. Se o MCP `supabase-ppgvet` estiver conectado nesta máquina, ver antes se o slug já existe em `mkt_utm_links` (só leitura) e reusar; sem ele, seguir.
+Minúsculo, palavras com hífen, sem acento nem número, a partir do tema ("As principais habilidades do líder de 2027" → `principais-habilidades-do-lider`). Vai na UTM `utm_content`. Se a live já tem link no gerador "Links com UTM" do sistema, reusar o mesmo nome.
 
 ## 2. Moldura do Instagram
 ```
@@ -28,7 +31,7 @@ Minúsculo, palavras com hífen, sem acento nem número, a partir do tema ("As p
 - Recorta o fundo sozinho. Foto já sem fundo: `--sem-recorte`.
 - Duas pós: os dois títulos lado a lado, no tamanho que cabe.
 - Antes de entregar, olhar o PNG. Cabeça grande ou pequena demais: `--largura` (padrão 500 = ombros do modelo). Recorte ruim (cabelo, braço): avisar e pedir outra foto.
-- Fixo no modelo (`acervo/live/moldura-insta.html`; exemplo vazio em `moldura-insta-exemplo.png`): fundo, faixa "ESTAMOS AO VIVO", "LINK NA BIO", janela do vídeo transparente e logo PPGVET em todas as pós, inclusive as da PPG.
+- Fixo no modelo (`acervo/live/moldura-insta.html`; exemplo vazio em `moldura-insta-exemplo.png`): fundo, faixa "ESTAMOS AO VIVO", "LINK NA BIO", janela do vídeo transparente e logo PPGVET em todas as pós, inclusive as da PPG (exceção escrita no `marca.md`).
 
 ## 3. QRs e links
 ```
@@ -50,7 +53,7 @@ Minúsculo, palavras com hífen, sem acento nem número, a partir do tema ("As p
 | `OVERLAYS/TITULO.png` | título da pós no topo (duas pós: lado a lado) |
 | `LINKS IMPORTANTES.txt` | links do chat e do certificado |
 
-Entregar: abrir a pasta e dizer o caminho do zip.
+**Conferir e dar nota** de 0 a 10 antes de entregar: moldura (rosto inteiro, sem cortar cabelo nem ombro, tema sem erro de grafia), QRs (lidos pelo script, link certo de cada pós), título da pós (nome oficial, cabe na moldura "uma pessoa"). Abaixo de 8: corrigir. Entregar: abrir a pasta, dizer o caminho do zip e a nota em uma linha.
 
 ## Títulos das pós (acervo)
 | arquivo | uso |
@@ -59,4 +62,4 @@ Entregar: abrir a pasta e dizer o caminho do zip.
 | `acervo/titulos-pos/titulo-pos-<sigla>-branco.png` | todo branco (moldura do Instagram) |
 | `acervo/live/titulos-overlay/titulo-live-<sigla>.png` | vMix: 1920x1080 transparente, título no topo (~88 px, a ~30 px do topo) |
 
-Desenho: Montserrat, "PÓS GRADUAÇÃO | NOME", quebras de linha iguais às dos criativos, sem "MBA". **Pós nova ou nome mudou:** pôr a sigla e as linhas em `POS` do `scripts/live_titulos.py`, rodar `"$PY" "$S/live_titulos.py" <sigla>` e publicar o pacote (quem cuida do pacote).
+Desenho: Montserrat, "PÓS GRADUAÇÃO | NOME", quebras de linha iguais às dos criativos, sem "MBA" (`marca.md`). **Pós nova ou nome mudou:** pôr a sigla e as linhas em `POS` do `scripts/live_titulos.py`, rodar `"$PY" "$S/live_titulos.py" <sigla>` e publicar o pacote (quem cuida do pacote).

diff --git a/plugins/ppgvet/regras/oficio/design.md b/plugins/ppgvet/regras/oficio/design.md
@@ -9,7 +9,7 @@ Lido quando a peça tem arte, cartão ou carrossel, no nível padrão e no capri
 | hierarquia | até 3 níveis (título, apoio, detalhe), por tamanho e peso, não por cor [L Bringhurst] |
 | grid | colunas e margens fixas; tudo alinha a alguma coisa [L Müller-Brockmann] |
 | tipografia | Montserrat em 2 ou 3 pesos; texto corrido de 45 a 75 caracteres por linha [L Bringhurst] |
-| contraste | texto 4,5:1; texto grande (≥ 24 px, ou ≥ 18,66 px em negrito) 3:1 [O WCAG 1.4.3] |
+| contraste | texto 4,5:1; texto grande 3:1 [O WCAG 1.4.3]. "Grande" no WCAG é ≥ 24 px (≥ 18,66 px em negrito) **na tela**: na peça de 1080 px vista no celular, isso dá ~52 px em negrito (ou ~64 px normal), linha "Tamanho no celular" abaixo |
 | cor | a cor muda com a vizinha: testar no fundo real, não na amostra [L Albers]. Marca como acento, neutros na maior parte |
 | espaço vazio | dá peso ao que importa; não encher os cantos [L] |
 
@@ -31,14 +31,14 @@ Lido quando a peça tem arte, cartão ou carrossel, no nível padrão e no capri
 - **Molde da casa:** fundo claro `#FAF9FB` (grade leve), logo no topo ao centro, margem de ~10%, até 3 níveis de texto em Montserrat (título Black em caixa alta, apoio Bold, detalhe), bloco "PÓS-GRADUAÇÃO │ nome" (`acervo/titulos-pos`), professor em cartão ou recortado com titulação certa (só Dr./Dra., Me./Ma.).
 - **Cor:** só os códigos do `marca.md` (as artes antigas derivaram: magenta `#B8569A`/`#CE5A9B`, teal `#00A19C`, azul PPG `#005EF2`; não copiar). Teal e magenta de acento: letra branca sobre o teal `#00B7AB` dá 2,6:1 e sobre o magenta 3,95:1, reprovado para letra pequena; texto em cima vai na caixa escura `#1A1A1A`.
 - **Tamanho no celular:** a peça de 1080 px aparece com ~390 pt de largura (×0,36). Letra abaixo de ~52 px em negrito (ou ~64 px normal) é pequena no celular: contraste de 4,5:1.
-- **Texto:** "Pós-Graduação", nunca "MBA"; números da marca iguais em toda peça; data sem crase ("23 a 25"); dia da semana tirado da data; grafia do nome conferida (foto, site). PPG e PPGVET nunca na mesma peça.
+- **Texto:** regras de texto e titulação em `oficio/copy.md`; marcas, exceções e "nunca MBA" no `marca.md`. Na arte: data sem crase ("23 a 25"), dia da semana tirado da data.
 - **Carrossel:** mesmo grid em todas as lâminas; 1ª = gancho ou capa que muda a cada edição (capa igual toda semana não dá novidade), meio = uma ideia por lâmina, última = chamada; "ARRASTA PARA O LADO" no rodapé, no mesmo lugar.
 
 ## O que denuncia cara de IA ou de template
 - Grade de cards iguais (ícone + título + 2 linhas), tudo centralizado e do mesmo tamanho, sem hierarquia.
 - Degradê roxo-azul neon, vidro fosco, bolhas 3D genéricas, brilho e sombra borrada grande.
 - Fontes demais, pesos aleatórios, texto longo em arte de feed.
-- Pessoa de banco, mockup genérico, ícone decorativo sem função.
+- Mockup genérico, ícone decorativo sem função (banco e IA fingindo pessoa ou lugar: `nucleo.md`).
 - Imagem de IA fingindo cena (bicho de camisa, porco astronauta), interface falsa (card de Threads, app Notas), emoji na arte, neon e vidro fosco, 3 famílias de fonte na mesma peça.
 
 Fontes: Müller-Brockmann, *Grid Systems in Graphic Design*; Bringhurst, *The Elements of Typographic Style*; Albers, *Interaction of Color*; [WCAG 1.4.3](https://www.w3.org/WAI/WCAG22/Understanding/contrast-minimum.html). Conferido em 24/11/2026.
